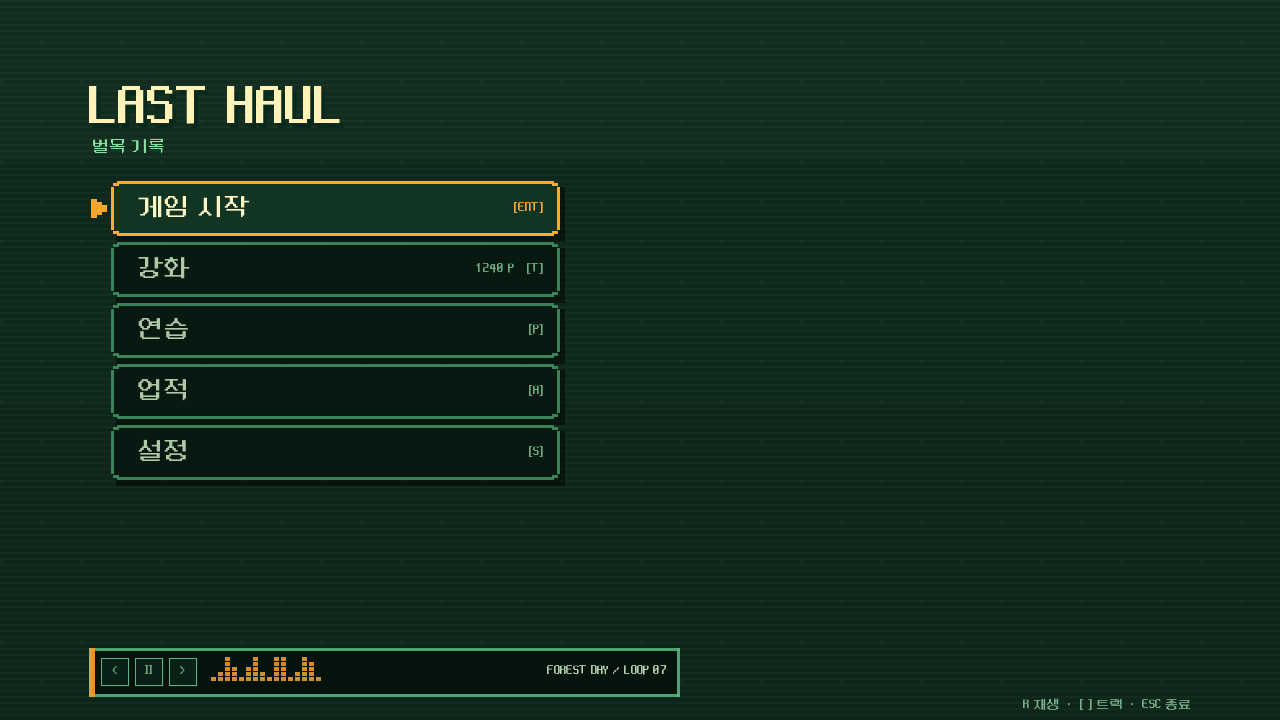
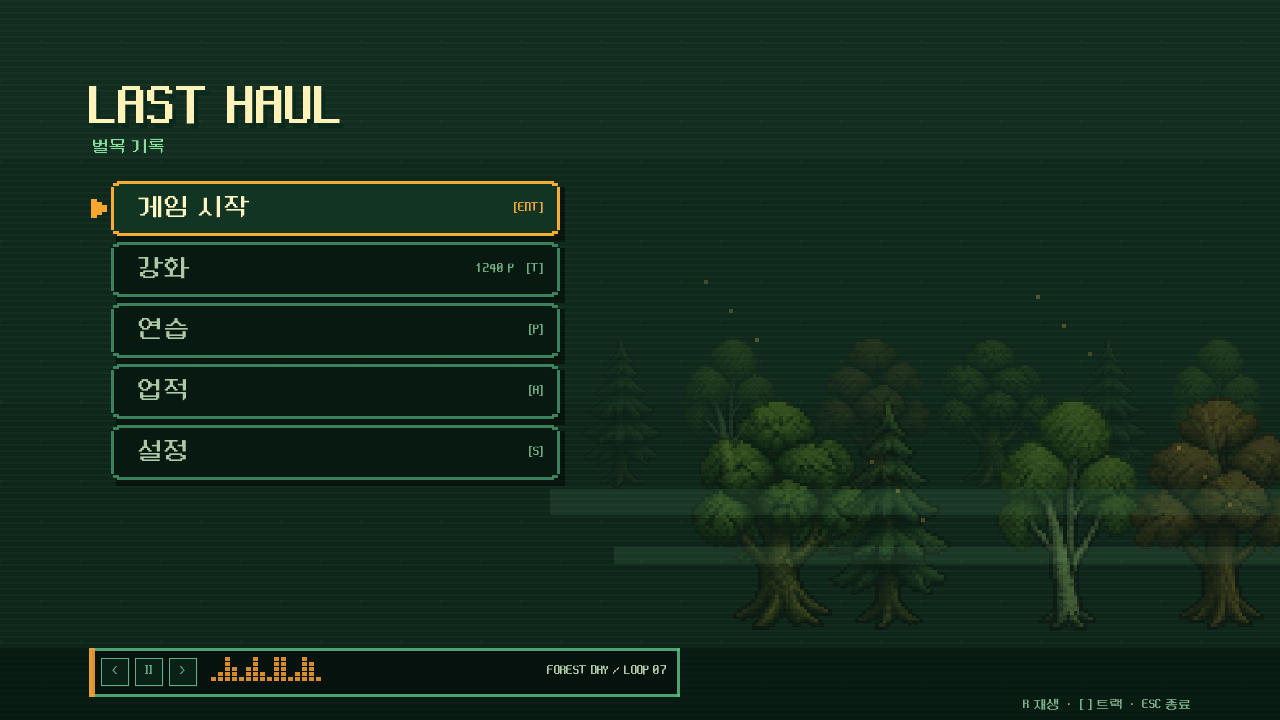
feat: 로비에 반응형 픽셀 숲 배경 추가

diff --git a/docs/FRONTEND_UI_REDESIGN.md b/docs/FRONTEND_UI_REDESIGN.md
@@ -28,7 +28,7 @@
 7. 화면 역할에 따라 실제 게임 아트 또는 반응형 UI를 사용한다. 현재 활성 로비는 고정 배경 이미지 없이 저대비 픽셀 작업면을 쓴다.
 8. 메뉴 문구는 기능·대상·수치만 짧게 말한다. 분위기를 만들기 위한 명령문, 광고 문구, 과장된 세계관 설명을 쓰지 않는다. `온대림 1구역`, `할당량 60그루`, `작업 준비`처럼 구체적으로 쓴다.
 
-현재 활성 로비는 배경 그림 한 장에 메뉴를 얹지 않는다. `게임 시작·강화·연습·업적·설정`만 세로 메뉴로 두고, 선택 상태는 픽셀 레일과 한 단계의 색 변화로만 표시한다. 관제 패널·상태 카드·진단 탭 같은 장식성 정보 구조는 사용하지 않는다. 이전 배경 화면의 왼쪽 아래 오디오 바 감각은 작은 픽셀 플레이어로 보존하며, 이전/재생·정지/다음과 `R`, `[`, `]` 단축키를 지원한다. 보존된 캠페인용 배경 자산은 삭제하지 않는다.
+현재 활성 로비는 배경 그림 한 장에 메뉴를 얹지 않는다. `게임 시작·강화·연습·업적·설정`만 세로 메뉴로 두고, 선택 상태는 픽셀 레일과 한 단계의 색 변화로만 표시한다. 관제 패널·상태 카드·진단 탭 같은 장식성 정보 구조는 사용하지 않는다. 빈 오른쪽과 하단에는 승인된 v3 나무 자산을 낮은 대비의 원경·근경 두 층으로 배치해 간단한 반응형 숲 장면을 만든다. 이전 배경 화면의 왼쪽 아래 오디오 바 감각은 작은 픽셀 플레이어로 보존하며, 이전/재생·정지/다음과 `R`, `[`, `]` 단축키를 지원한다. 보존된 캠페인용 배경 자산은 삭제하지 않는다.
 
 로비 전용 타이포그래피는 `assets/font-korean-pixel.ttf`의 Neo둥근모 Pro를 정수 크기로 사용한다. 제목·메뉴·키캡·오디오 트랙명을 같은 픽셀 계열로 묶고, 선택 항목은 블록 커서와 잘린 모서리의 2픽셀 프레임으로 구분한다. Noto Sans KR 기본 고딕과 둥근 웹 카드형 메뉴는 로비에 사용하지 않는다.
 
